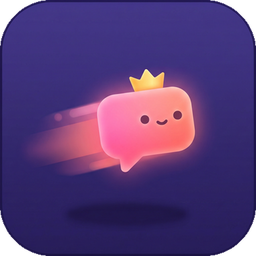
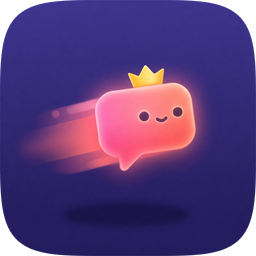
docs: 更新应用图标与官网地址
- 替换为新版应用图标
- 「关于作者」中的官网地址更正为当前官网
- 页头补充官网 / 下载入口

diff --git a/README.md b/README.md
@@ -9,6 +9,11 @@
 </p>
 
 <p align="center">
+  <a href="https://danmakuhime-6qjiqefw.manus.space"><strong>官网</strong></a> ·
+  <a href="https://danmakuhime-6qjiqefw.manus.space">下载</a>
+</p>
+
+<p align="center">
   <a href="https://github.com/libra-co/danmakuhime-releases/releases"><img src="https://img.shields.io/github/v/release/libra-co/danmakuhime-releases?style=flat-square&label=%E6%9C%80%E6%96%B0%E7%89%88%E6%9C%AC" alt="Release"></a>
   <a href="https://github.com/libra-co/danmakuhime-releases/releases"><img src="https://img.shields.io/github/downloads/libra-co/danmakuhime-releases/total?style=flat-square&label=%E4%B8%8B%E8%BD%BD%E9%87%8F" alt="Downloads"></a>
 </p>
@@ -120,7 +125,7 @@
 
 - B站：[@原来是Li哇](https://space.bilibili.com/26190537)
 - 直播间：[live.bilibili.com/4536023](https://live.bilibili.com/4536023)
-- 官网：[danmakuhime-8qjbmg8b.manus.space](https://danmakuhime-8qjbmg8b.manus.space)
+- 官网：[danmakuhime-6qjiqefw.manus.space](https://danmakuhime-6qjiqefw.manus.space)
 
 ---
 
